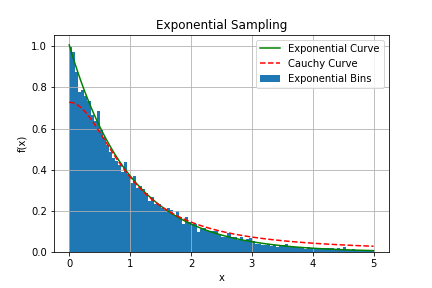
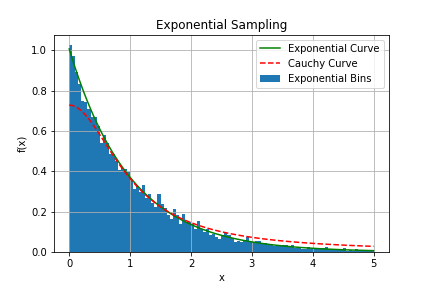
Push Typo

Changed region(s): [[0.0602, 0.25, 0.9028, 0.875], [0.0602, 0.125, 0.6019, 0.25]]

diff --git a/PSET7/PSET7_Q2+3.py b/PSET7/PSET7_Q2+3.py
@@ -34,24 +34,24 @@ def CauchyRando(tail):
 
 def ExpRando(tail):
     
-    rand0 = np.random.rand(int(1e5))*tail
-    rand1 = np.array([CauchyRando(tail) for i in range(int(1e5))])
+    randoCauch = np.array([CauchyRando(tail) for i in range(int(1e5))])
+    randoNum = np.random.rand(int(1e5))*tail
     
-    approved = rand0 < np.exp(-rand1) / CauchyCurve(rand1)
+    approved = randoNum < np.exp(-randoCauch) / CauchyCurve(randoCauch)
     
-    return rand1[approved]
+    return randoCauch[approved]
 
 
 xDom = np.linspace(0, 10, 1001)
+
 u = np.random.rand(int(1e5))
 v = np.random.rand(int(1e5))*2/np.e
 
 approved = u <= np.sqrt(np.exp(-v/u))
 
-
-plt.plot(xDom , Gaussian(xDom), ls = '--', label = 'Gaussian')
 plt.plot(xDom , PowLaw(xDom), ls = '--', label = "Power Law")
 plt.plot(xDom , Lorentz(xDom), ls = '--', label = 'Lorentzian')
+plt.plot(xDom , Gaussian(xDom), ls = '--', label = 'Gaussian')
 plt.plot(xDom, np.exp(-xDom), c= 'k', label ="Exponential, $\lambda = 1$")
 plt.plot(xDom, xDom*0 + 1, label = "Uniform")
 plt.plot(xDom, CauchyCurve(xDom), label = "Cauchy")
@@ -73,7 +73,7 @@ print("approvedance Rate:", len(CauchSamp)/int(1e5))
 
 plt.hist(CauchSamp, dx, density = True, label = "Cauchy Bins")
 plt.plot(dx, CauchyCurve(dx)/np.arctan(tail), label = "Cauchy Curve", color = 'red')
-plt.plot(dx, np.exp(-dx)*(1 - np.cosh(tail) + np.sinh(tail)), ls = '--', label = "Exponential Curve", color = 'green')
+plt.plot(dx, np.exp(-dx)*(1  + np.sinh(tail) - np.cosh(tail)), ls = '--', label = "Exponential Curve", color = 'green')
 plt.xlabel('x')
 plt.ylabel('f(x)')
 plt.title('Cauchy Sampling')
@@ -88,7 +88,7 @@ ExpSamp = ExpRando(tail)
 print("approvedance Rate:", len(ExpSamp)/int(1e5))
 
 plt.hist(ExpSamp, dx, density = True, label = "Exponential Bins")
-plt.plot(dx, np.exp(-dx)/(1 - np.cosh(tail) + np.sinh(tail)), label = "Exponential Curve", color = 'green')
+plt.plot(dx, np.exp(-dx)/(1  + np.sinh(tail) - np.cosh(tail)), label = "Exponential Curve", color = 'green')
 plt.plot(dx, CauchyCurve(dx)/np.arctan(tail), ls = '--', label = "Cauchy Curve", color = 'red')
 plt.xlabel('x')
 plt.ylabel('f(x)')
@@ -103,11 +103,11 @@ pdfPoints = (v/u)[approved]
 print("approvedance Rate of PDF:", len(pdfPoints)/len(approved))
 
 plt.hist(pdfPoints, bins = dx, density=True, label = "PDF Bins")
-plt.plot(dx, np.exp(-dx)/(1 - np.cosh(tail) + np.sinh(tail)), label = "Exponential PDF", color = 'green')
+plt.plot(dx, np.exp(-dx)/(1  + np.sinh(tail) - np.cosh(tail)), label = "Exponential PDF", color = 'green')
 plt.xlabel('x')
 plt.ylabel('f(x)')
-plt.title('Exponential Sampling')
+plt.title('PDF Sampling')
 plt.grid()
 plt.legend()
-plt.savefig("PSET7_Q2_PDF.png")
+plt.savefig("PSET7_Q3_PDF.png")
 plt.show()
